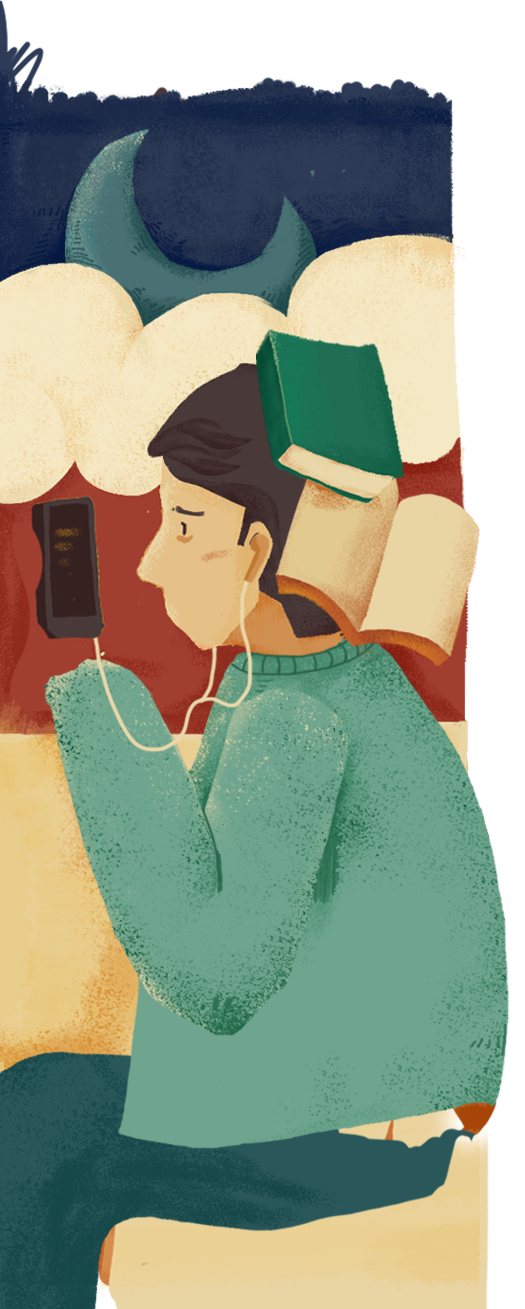
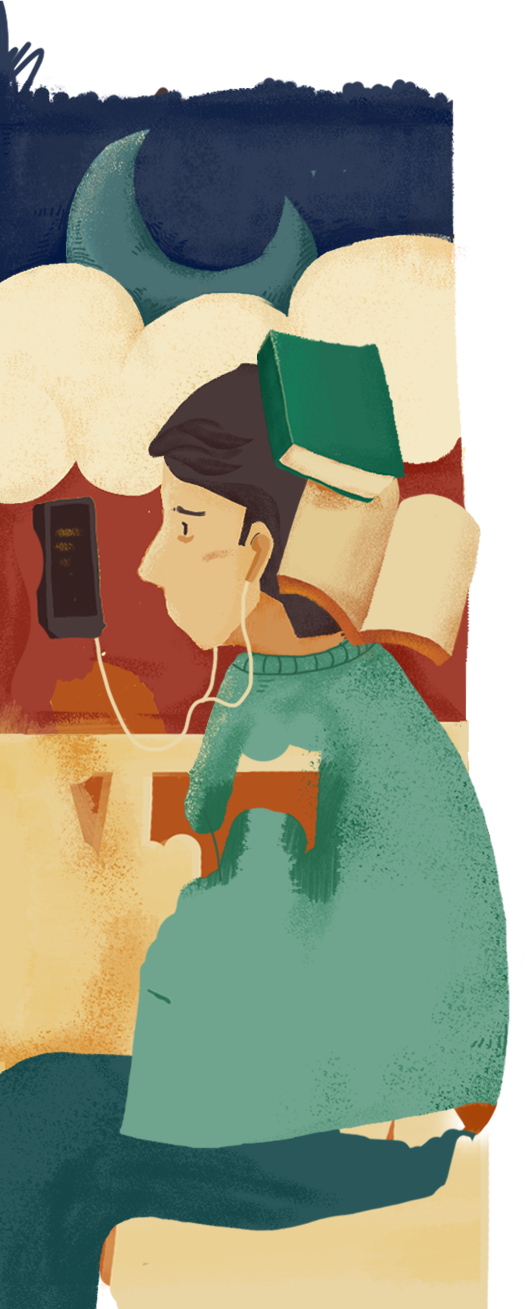
f3 static

diff --git a/lg151222-endyear/less/index.less b/lg151222-endyear/less/index.less
@@ -41,7 +41,9 @@ body{font-size: .24rem;overflow:hidden;font-family: Arial;}
 }
 .tranlate_wrapper{height: 100%;width: 100%;.pr;
 	.bgi(@url, @va:center){background: url(@url) no-repeat center @va;background-size: 100%;}
-	.p1_item>div{width: 100%;height: 100%;}
+	.p1_item{overflow: hidden;
+		&>div{width: 100%;height: 100%;}
+	}
 	.p1_f1_txt{.bgi("../image/p1_f1_txt.png");width:3.87rem;height:4.82rem;left: 4.62-2.82rem;}
 	.p1_f1_g1_1{.bgi("../image/p1_f1_g1_1.png");width:4.96rem;height:4.72rem;left: -2.2rem;}
 	.p1_f1_g1_2{.bgi("../image/p1_f1_g1_2.png");width:2.26rem;height:3.1rem;left: 4.99-2.82rem;}
@@ -80,11 +82,19 @@ body{font-size: .24rem;overflow:hidden;font-family: Arial;}
 	}
 	.p1_f3_bg,.p1_f4_bg{width: 100%;height: 100%;background-color: #faf0d8;left: 0;top: 0;opacity: 1;}
 	.p1_f3_tle{width: 2.46rem;height: 1.7rem;.bgi("../image/p1_f3_tle.png");left: 6.2-1.4rem;}
-	.p1_f3_lbg{width: 5.25rem;height: 100%;.bgi("../image/p1_f3_readbg.png",bottom);left: 0;}
+	.p1_f3_lbg{width: 5.25rem;height: 100%;.bgi("../image/p1_f3_readbg.png",bottom);left: 0;
+		.p1f3_hand{.bgi("../image/p1f3_hand.png");.pa;width: .81rem;height: 1.71rem;left: .07rem; bottom: 14.51-8.47rem;}
+		.p1f3_moblight{.bgi("../image/p1f3_mob_light.png");.pa;width: 4.61rem;height: 5.26rem;left: -.27rem;bottom: 14.51-9.98rem;}
+		.p1f3_sheep{.bgi("../image/p1f3_sheep.png");.pa;width: 5.32rem;height: 5.73rem;left: .07rem; bottom: 14.51-15.46rem;}
+		.p1f3_arm{.bgi("../image/p1f3_arm.png");.pa;width: 3.06rem;height: 4.27rem;left: .44rem; bottom: 14.51-12.27rem;}
+	}
+	.p1_f3_desc{color: #d87b2b;font-size: .27rem;left: 6.5-1.4rem;line-height: .48rem;width: 2.1rem;
+		.oneline{white-space: nowrap;}
+	}
 
 	.p1_f4_eat_bg_wrap{background-color: #a03e30;width: 4.66rem;height: 100%;left: 0;
 		.p1f4_lbg{.pa;.bgi("../image/p1_f4_eatbg.png",bottom);width: 5.92rem;height: 100%;top: 0;left: -1.03rem;}
 	}
 	.p1_f4_tle{width: 2.38rem;height: 1.48rem;.bgi("../image/p1_f4_tle.png");left: 6.24-1.4rem;}
-
+	
 }

diff --git a/lg151222-endyear/css/index.css b/lg151222-endyear/css/index.css
@@ -3005,6 +3005,9 @@ body {
   width: 100%;
   position: relative;
 }
+.tranlate_wrapper .p1_item {
+  overflow: hidden;
+}
 .tranlate_wrapper .p1_item > div {
   width: 100%;
   height: 100%;
@@ -3236,6 +3239,52 @@ body {
   background: url("../image/p1_f3_readbg.png") no-repeat center bottom;
   background-size: 100%;
   left: 0;
+}
+.tranlate_wrapper .p1_f3_lbg .p1f3_hand {
+  background: url("../image/p1f3_hand.png") no-repeat center center;
+  background-size: 100%;
+  position: absolute;
+  width: .81rem;
+  height: 1.71rem;
+  left: .07rem;
+  bottom: 6.04rem;
+}
+.tranlate_wrapper .p1_f3_lbg .p1f3_moblight {
+  background: url("../image/p1f3_mob_light.png") no-repeat center center;
+  background-size: 100%;
+  position: absolute;
+  width: 4.61rem;
+  height: 5.26rem;
+  left: -0.27rem;
+  bottom: 4.53rem;
+}
+.tranlate_wrapper .p1_f3_lbg .p1f3_sheep {
+  background: url("../image/p1f3_sheep.png") no-repeat center center;
+  background-size: 100%;
+  position: absolute;
+  width: 5.32rem;
+  height: 5.73rem;
+  left: .07rem;
+  bottom: -0.95rem;
+}
+.tranlate_wrapper .p1_f3_lbg .p1f3_arm {
+  background: url("../image/p1f3_arm.png") no-repeat center center;
+  background-size: 100%;
+  position: absolute;
+  width: 3.06rem;
+  height: 4.27rem;
+  left: .44rem;
+  bottom: 2.24rem;
+}
+.tranlate_wrapper .p1_f3_desc {
+  color: #d87b2b;
+  font-size: .27rem;
+  left: 5.1rem;
+  line-height: .48rem;
+  width: 2.1rem;
+}
+.tranlate_wrapper .p1_f3_desc .oneline {
+  white-space: nowrap;
 }
 .tranlate_wrapper .p1_f4_eat_bg_wrap {
   background-color: #a03e30;

diff --git a/lg151222-endyear/index.html b/lg151222-endyear/index.html
@@ -50,10 +50,28 @@
 					</div>
 				</div>
 				<div class="frame_wrapper" style="z-index:8;">
-					<div class="p1_f3_bg p1_item"><div></div></div>
+					<div class="p1_f3_bg p1_item">
+						<div>
+						</div>
+					</div>
 					<div class="oh_wrapper" data-oh="12.08">
-						<div class="p1_f3_lbg p1_item" data-align="left"><div></div></div>
+						<div class="p1_f3_lbg p1_item" data-align="left">
+							<div>
+								<div class="p1f3_hand"></div>		
+								<div class="p1f3_sheep"></div>
+								<div class="p1f3_arm"></div>
+								<div class="p1f3_moblight"></div>		
+							</div>
+						</div>
 						<div class="p1_f3_tle p1_item" data-rt="-4.58"><div></div></div>
+						<div class="p1_f3_desc p1_item" data-rt="-6.56">
+							<div>
+								<p>睡不着&醒不来轮番上演。</p>
+								<p class="oneline">这是一年中的<b>33%</b>，</p>
+								<p class="">整整122天，<span class="nickname">老吴</span></p>
+								<p class="oneline">在枕头上的时间。</p>
+							</div>
+						</div>
 					</div>
 				</div>
 				<div class="frame_wrapper" style="z-index:7;">
